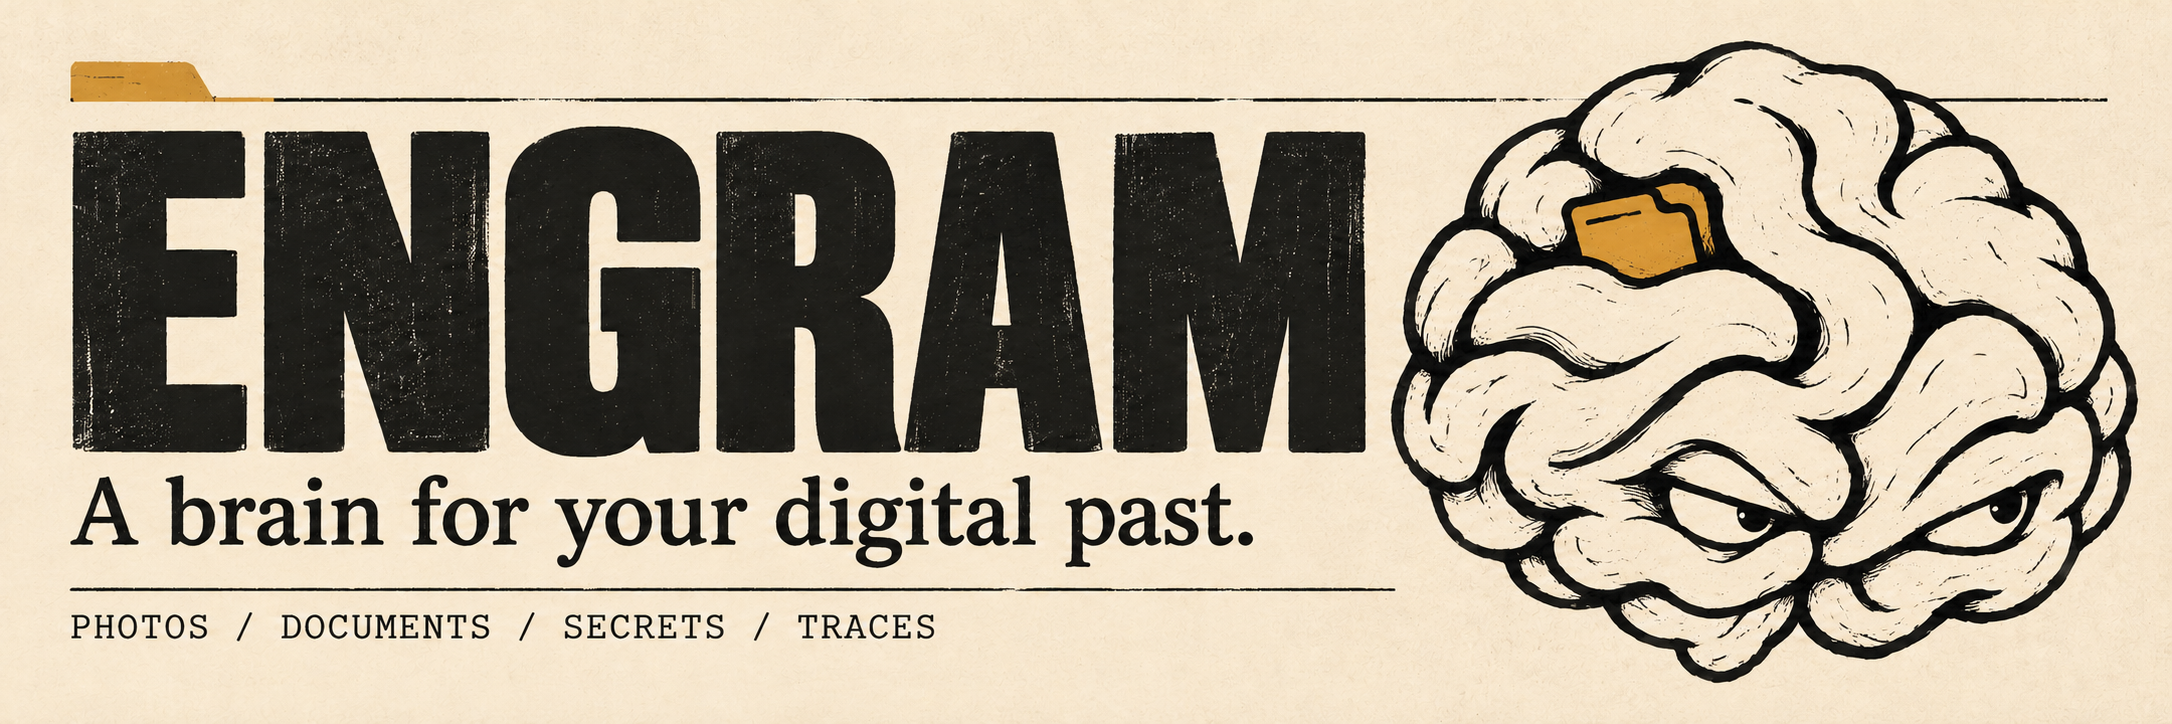
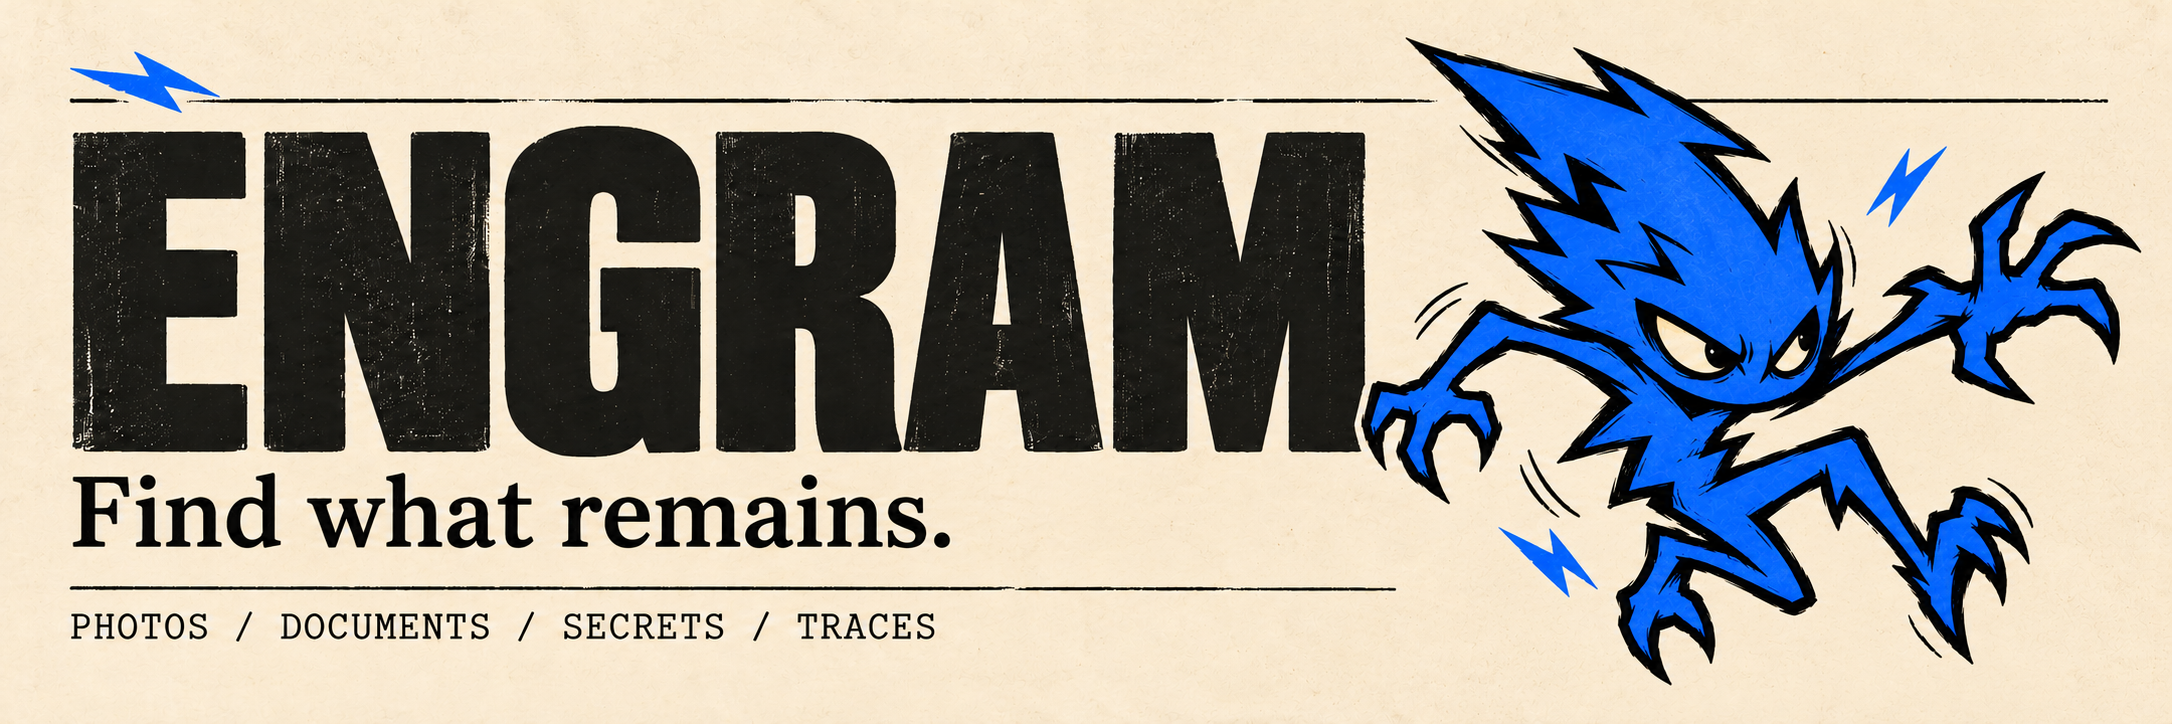
style: adopt the approved cobalt character [skip ci]

diff --git a/assets/README.md b/assets/README.md
@@ -1,12 +1,12 @@
 # ENGRAM identity
 
-Warm paper, charcoal ink, a small ochre archive tab. The brain is an archivist: curious, watchful, and focused on the evidence behind a memory.
+The current source identity follows the user's jagged cobalt-blue lightning creature. Warm ivory, charcoal and electric blue frame a direct evidence-inspection workspace. The slogan is "Find what remains." and interface labels use Trace desk and Trace map.
 
 - `banner.png`: wide README header, 3:1 composition.
 - `mascot.png`: square avatar with safe margins for a circular crop.
 - `screenshots/`: captures of the actual native application, labelled synthetic when using the demonstration case.
 
-Palette: paper `#F4E9D2`, ink `#171815`, ochre `#C7932B`. The application uses the same restrained palette with category accents for navigation.
+Palette: warm ivory `#F4F0E5`, paper panels `#FBF7EC`, ink `#171B24`, sidebar `#181C24`, electric cobalt `#246BFE`. Category accents remain distinct so source categories can be read independently of the active-control color.
 
-The brand illustrations were generated and iteratively refined for this project. They are concept artwork, not evidence or screenshots of recovered data. Keep documentation captures separate from illustrations.
+The selected creature is a brand illustration, not evidence or a screenshot of recovered data. Keep native application captures separate from artwork and identify their build provenance. Published preview.1 packages retain their original identity; the preview.2 style update needs new verified captures before release.
 
